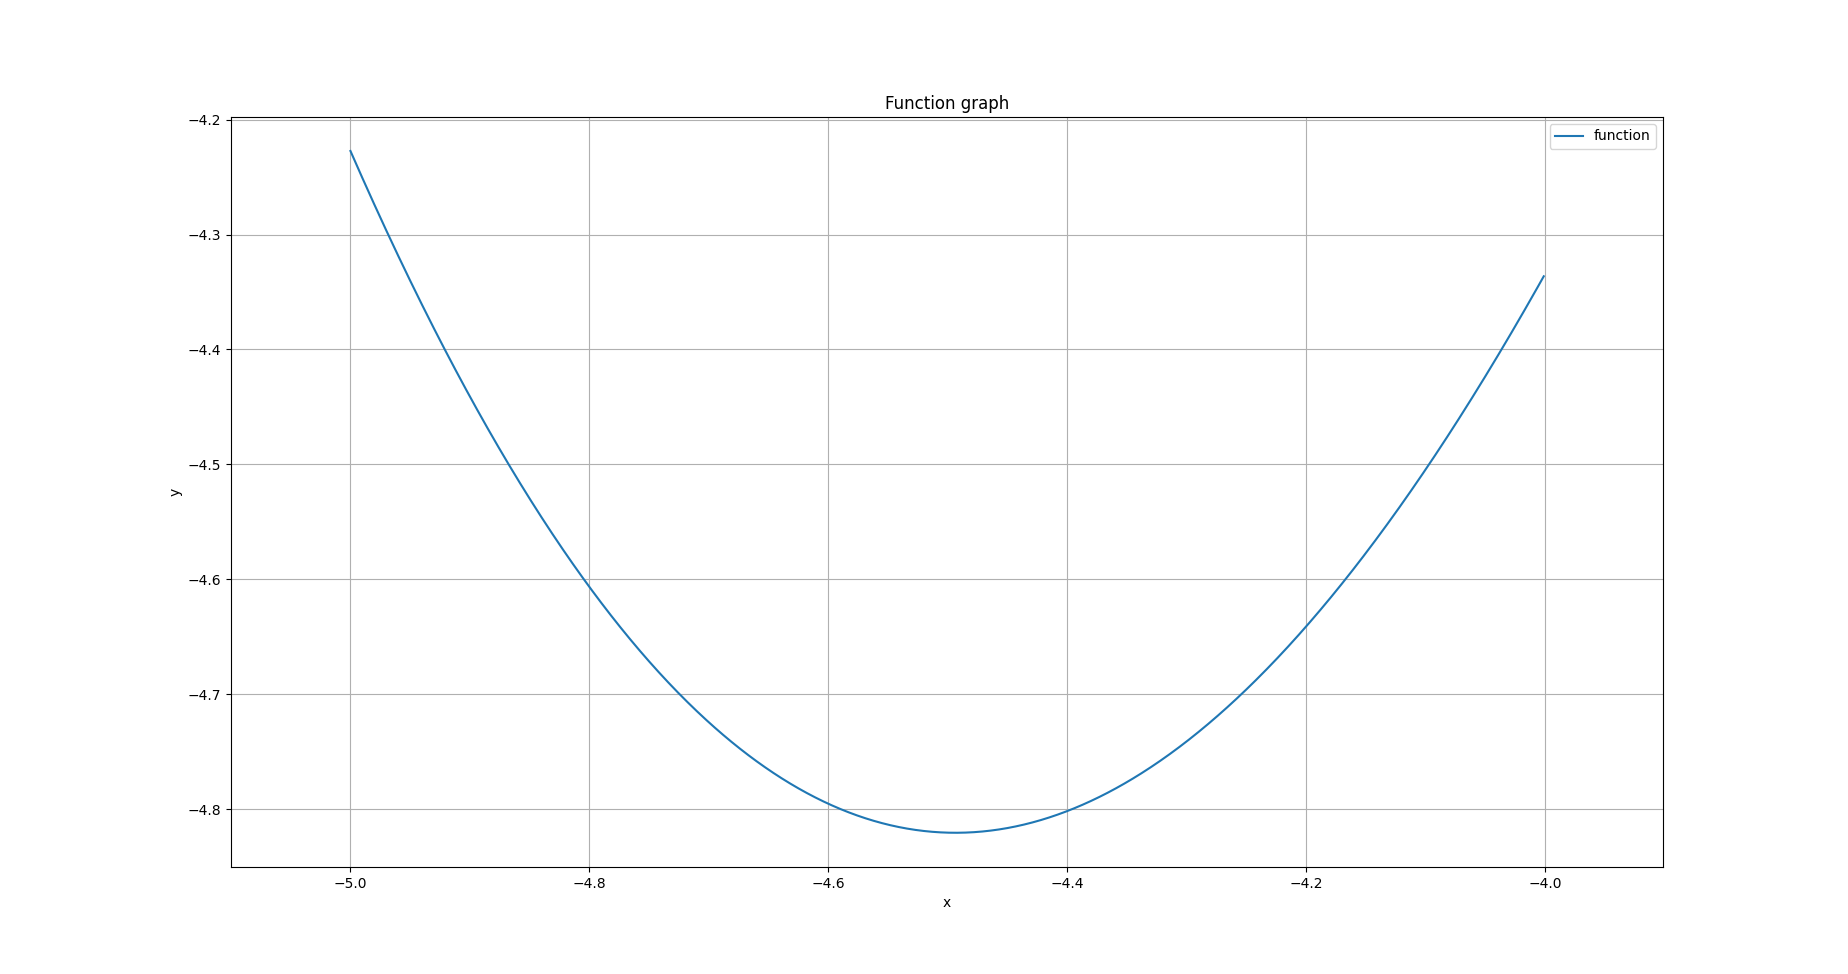
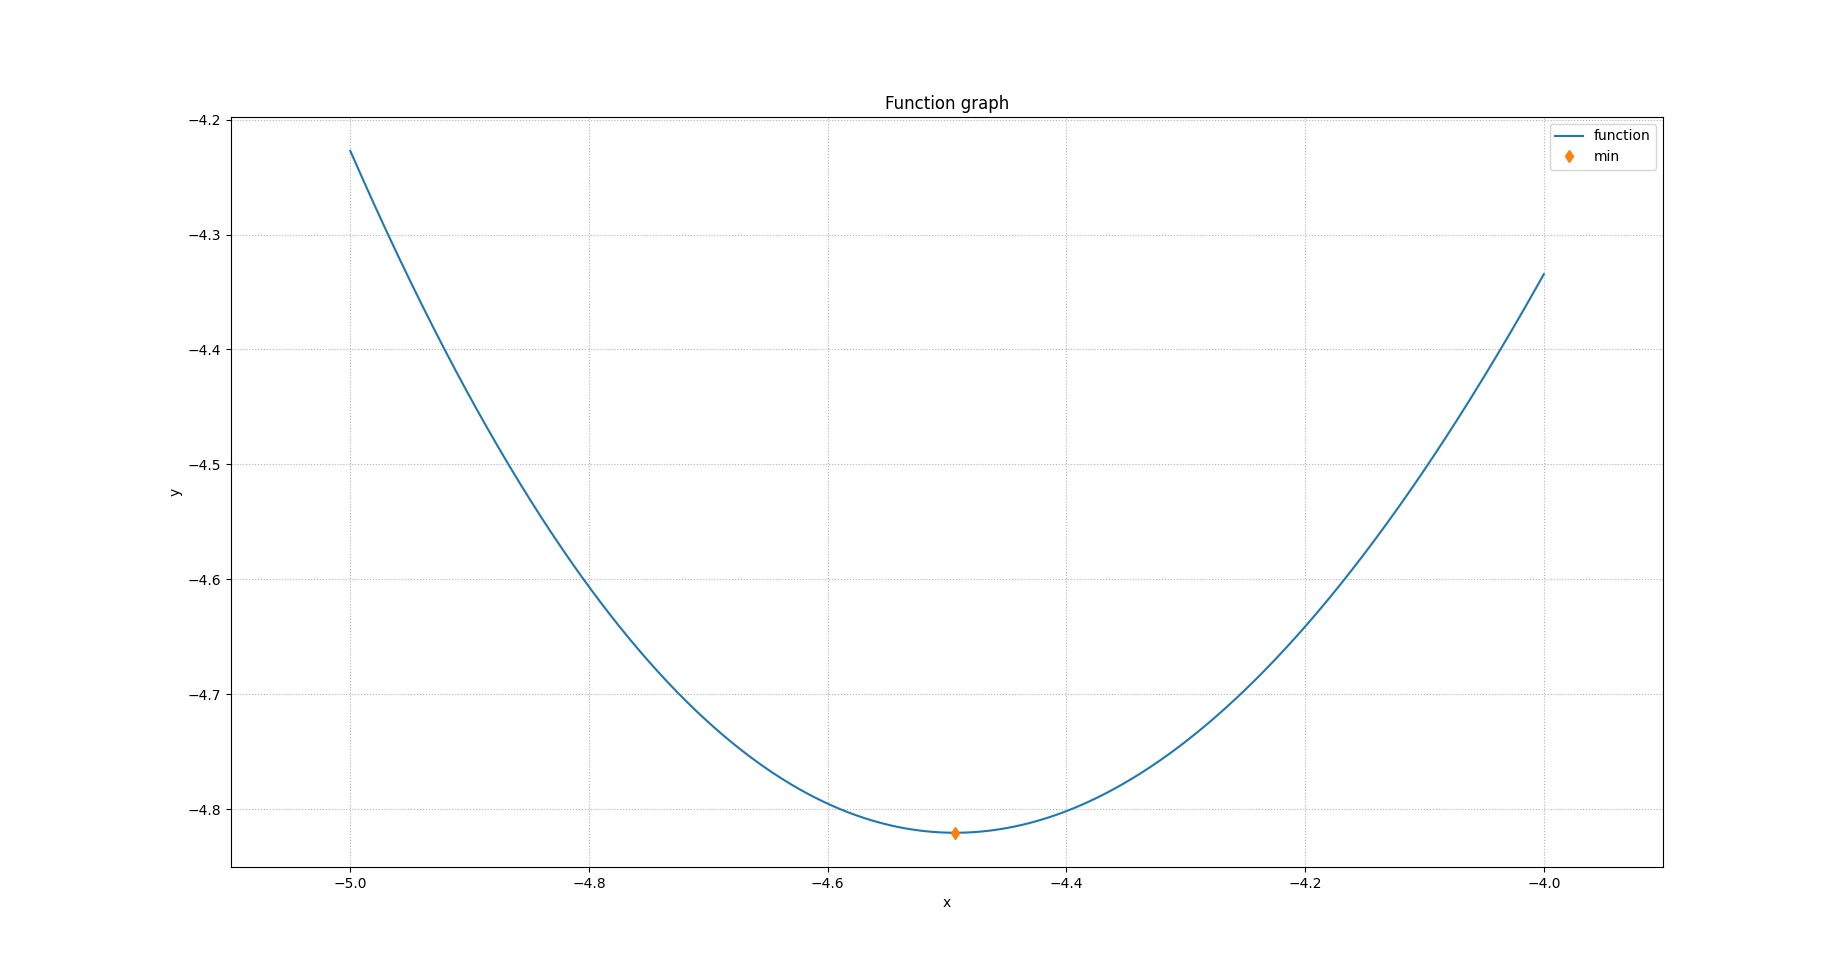
Add info to plot

Changed region(s): [[0.8328, 0.154, 0.8636, 0.1848]]

diff --git a/plot.py b/plot.py
@@ -4,17 +4,18 @@ import numpy as np
 
 
 (start, end) = Task.limits()
-x_axe = np.arange(start, end, 0.001)
+x_axe = np.arange(start, end + 0.001, 0.001)
+x_min = -4.49340945790906
 
 fig, ax = plt.subplots()
-ax.plot(x_axe, np.array([Task.f(x) for x in x_axe]))
+ax.plot(x_axe, np.array([Task.f(x) for x in x_axe]), [x_min], [Task.f(x_min)], 'd')
 ax.set_xlim(xmin=x_axe[0] - 0.1, xmax=x_axe[-1] + 0.1)
 
 ax.set_title('Function graph')
 ax.legend(loc='upper left')
 ax.set_xlabel('x')
 ax.set_ylabel('y')
-plt.grid()
-plt.legend(['function'])
+plt.grid(linestyle='dotted')
+plt.legend(['function', 'min'])
 
 plt.show()
